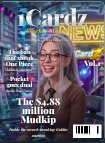
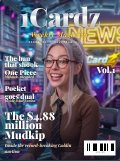
Newsletter: Vol.2, Luna with mic on the cover, graded-slab past issues stacked 6 per side with Read tabs
Claude-Session: https://claude.ai/code/session_0169K2LSRos4CF6RkggE7PND

diff --git a/newsletter.html b/newsletter.html
@@ -1123,19 +1123,33 @@ body>header .cover .top-cover{z-index:0}
   will-change:background-position;transform:translateZ(0);animation:mzholo 3.2s linear infinite}
 @keyframes mzholo{from{background-position:100% 0}to{background-position:0% 0}}
 @media (prefers-reduced-motion:reduce){.mz-cover .mast .ho{animation:none;opacity:0}}
-/* side shelves of past issues (Nov 8) */
-.mz-desk{position:relative;z-index:4;display:grid;padding:0 clamp(14px,2vw,26px);grid-template-columns:minmax(0,150px) minmax(0,1fr) minmax(0,150px);gap:clamp(12px,2vw,26px);align-items:start}
-.mz-shelf{display:grid;grid-template-columns:1fr 1fr;gap:10px;padding-top:clamp(16px,3vw,32px)}
-.mz-slot{display:block;padding:0;border:0;background:none;cursor:pointer;border-radius:3px;transition:transform .2s ease,box-shadow .2s ease;box-shadow:0 8px 18px rgba(0,0,0,.45)}
-.mz-slot .mz-page{pointer-events:none;border-radius:3px}
+/* side shelves of past issues (Nov 8): 6 per side, straight down; each cover cased like a graded card */
+.mz-desk{position:relative;z-index:4;display:grid;padding:0 clamp(14px,2vw,26px);grid-template-columns:minmax(80px,90px) minmax(0,1fr) minmax(80px,90px);gap:clamp(24px,2.6vw,34px);align-items:start}
+.mz-shelf{display:flex;flex-direction:column;gap:14px;padding-top:clamp(16px,3vw,32px)}
+.mz-slot{position:relative;display:block;width:100%;padding:0;border:0;background:none;color:inherit;font:inherit;text-align:left;cursor:pointer;transition:transform .2s ease}
+.mz-slot .slab{display:block;padding:4px 4px 6px;border-radius:6px;background:linear-gradient(135deg,rgba(255,255,255,.30),rgba(255,255,255,.07) 38%,rgba(255,255,255,.04) 62%,rgba(255,255,255,.20));
+  border:1px solid rgba(255,255,255,.5);box-shadow:inset 0 0 0 2px rgba(255,255,255,.08),inset 0 1px 0 rgba(255,255,255,.6),0 10px 20px rgba(0,0,0,.5)}
+.mz-slot .lbl{display:block;margin-bottom:4px;padding:3px 3px 2px;background:#f6f4ee;border:1px solid #c8102e;border-radius:2px;text-align:center;font-family:var(--f-mono);text-transform:uppercase;line-height:1.25;color:#12162b;overflow:hidden;white-space:nowrap}
+.mz-slot .lbl b{display:block;font-size:8.5px;letter-spacing:.06em;font-weight:700}
+.mz-slot .lbl i{display:block;font-style:normal;font-size:6.5px;letter-spacing:.04em;color:#c8102e;overflow:hidden;text-overflow:ellipsis}
+.mz-slot .cv{display:block;min-width:68px;border-radius:2px;overflow:hidden;box-shadow:0 0 0 1px rgba(0,0,0,.35)}
+.mz-slot .mz-page{pointer-events:none}
 .mz-slot .mz-cover .mast .ho{display:none}
-.mz-slot:hover,.mz-slot:focus-visible{transform:translateY(-3px) rotate(-1deg)}
-.mz-slot.on{box-shadow:0 0 0 2px #ffd23f,0 0 16px rgba(255,210,63,.5)}
-.mz-slot.empty{aspect-ratio:3/4;border:1px dashed rgba(255,255,255,.16);box-shadow:none;cursor:default;background:rgba(255,255,255,.02)}
-.mz-slot.empty:hover{transform:none}
+.mz-slot .tab{position:absolute;top:50%;right:-17px;transform:translateY(-50%);width:17px;padding:10px 0;border-radius:0 5px 5px 0;background:#ffd23f;color:#12162b;
+  font-family:var(--f-mono);font-size:9px;font-weight:700;letter-spacing:.18em;text-transform:uppercase;writing-mode:vertical-rl;text-align:center;box-shadow:0 4px 10px rgba(0,0,0,.4)}
+.mz-shelf.r .mz-slot .tab{right:auto;left:-17px;border-radius:5px 0 0 5px;transform:translateY(-50%) rotate(180deg)}
+.mz-slot:hover,.mz-slot:focus-visible{transform:translateY(-3px)}
+.mz-slot.on .slab{border-color:#ffd23f;box-shadow:0 0 0 2px #ffd23f,0 0 18px rgba(255,210,63,.5)}
+.mz-slot.empty{cursor:default;opacity:.35}.mz-slot.empty:hover{transform:none}
+.mz-slot.empty .slab{border-style:dashed;background:rgba(255,255,255,.03);box-shadow:none}
+.mz-slot.empty .lbl{background:none;border:1px dashed rgba(255,255,255,.35)}
+.mz-slot.empty .cv{aspect-ratio:3/4;box-shadow:none;border:1px dashed rgba(255,255,255,.25)}
 .mz-home{display:block;margin:0 auto 10px;font:inherit;font-family:var(--f-mono);font-size:12px;letter-spacing:.12em;text-transform:uppercase;color:#12162b;background:#ffd23f;border:0;border-radius:999px;padding:8px 14px;cursor:pointer}
 .mz-home[hidden]{display:none}
-@media (max-width:759px){.mz-desk{grid-template-columns:minmax(0,1fr);padding:0}.mz-shelf{grid-template-columns:repeat(6,minmax(0,1fr));gap:8px;padding:12px 22px 0}
+@media (max-width:759px){.mz-desk{grid-template-columns:minmax(0,1fr);padding:0}
+  .mz-shelf{flex-direction:row;gap:12px;padding:14px 22px 4px;overflow-x:auto;scrollbar-width:thin}
+  .mz-slot{flex:0 0 86px}
+  .mz-slot .tab,.mz-shelf.r .mz-slot .tab{position:static;display:block;width:auto;margin-top:4px;padding:4px 0;border-radius:4px;transform:none;writing-mode:horizontal-tb}
   .mz-desk>.mz-mid{order:1}.mz-shelf.l{order:2}.mz-shelf.r{order:3}}
 .mz-cover .tag{position:absolute;left:0;right:0;top:34.5cqw;z-index:2;text-align:center;font-family:var(--f-mono);font-size:2.3cqw;letter-spacing:.25em;text-transform:uppercase;color:#fff;text-shadow:0 .3cqw .8cqw rgba(0,0,0,.6)}
 .mz-cover .side{position:absolute;left:4cqw;top:46cqw;z-index:2;width:30cqw;display:flex;flex-direction:column;gap:4cqw}
@@ -1297,7 +1311,7 @@ body>header .cover .top-cover{z-index:0}
         <span class="mono mw-label" style="color:#ffd23f"><i style="background:#ffd23f;box-shadow:0 0 10px #ffd23f"></i><span>Newsletter</span></span>
         <span class="mono mw-upd" id="mzDate">Sunday, November 8, 2026</span>
       </div>
-<div class="mz-desk"><div class="mz-shelf l" aria-label="Past issues"><button type="button" class="mz-slot" data-src="mag/issue-01.html" data-date="Sunday, November 1, 2026" aria-label="Open Issue 01, Sunday, November 1, 2026"><div class="mz-page mz-cover" role="img" aria-label="Magazine cover: The $4.88 million Mudkip">
+<div class="mz-desk"><div class="mz-shelf l" aria-label="Past issues"><button type="button" class="mz-slot" data-src="mag/issue-01.html" data-date="Sunday, November 1, 2026" aria-label="Read Issue 01, Sunday, November 1, 2026"><span class="slab"><span class="lbl"><b>NOV 1, 2026</b><i>Issue 01</i></span><span class="cv"><div class="mz-page mz-cover" role="img" aria-label="Magazine cover: The $4.88 million Mudkip">
   <div class="ph"><img src="img/nl-cover-clip11.jpg" alt="" loading="lazy"></div>
   <div class="mhd"><div class="mast" aria-label="1Cardz"><span class="sh">1Cardz</span><span class="sv">1Cardz</span><span class="ho" aria-hidden="true">1Cardz</span></div>
   <div class="wm">Weekly Magazine</div></div>
@@ -1306,14 +1320,14 @@ body>header .cover .top-cover{z-index:0}
   <div class="side"><div><b>The ban that shook One Piece</b><span>Mihawk, sheathed</span></div><div><b>Pocket goes dual</b><span>Inside Dual Fusion</span></div></div>
   <div class="big"><b>The $4.88 million Mudkip</b><span>Inside the record-breaking Goldin auction</span></div>
   <div class="bar"><i></i>1CZ-01</div>
-</div></button><div class="mz-slot empty" aria-hidden="true"></div><div class="mz-slot empty" aria-hidden="true"></div><div class="mz-slot empty" aria-hidden="true"></div><div class="mz-slot empty" aria-hidden="true"></div><div class="mz-slot empty" aria-hidden="true"></div></div><div class="mz-mid"><button type="button" class="mz-home" id="mzHome" hidden>↩ This week's issue</button><div class="mz" id="mz" data-pages="19">
+</div></span></span><span class="tab">Read</span></button><div class="mz-slot empty" aria-hidden="true"><span class="slab"><span class="lbl"><b>&nbsp;</b><i>&nbsp;</i></span><span class="cv"></span></span></div><div class="mz-slot empty" aria-hidden="true"><span class="slab"><span class="lbl"><b>&nbsp;</b><i>&nbsp;</i></span><span class="cv"></span></span></div><div class="mz-slot empty" aria-hidden="true"><span class="slab"><span class="lbl"><b>&nbsp;</b><i>&nbsp;</i></span><span class="cv"></span></span></div><div class="mz-slot empty" aria-hidden="true"><span class="slab"><span class="lbl"><b>&nbsp;</b><i>&nbsp;</i></span><span class="cv"></span></span></div><div class="mz-slot empty" aria-hidden="true"><span class="slab"><span class="lbl"><b>&nbsp;</b><i>&nbsp;</i></span><span class="cv"></span></span></div></div><div class="mz-mid"><button type="button" class="mz-home" id="mzHome" hidden>↩ This week's issue</button><div class="mz" id="mz" data-pages="19">
   <div class="mz-book" id="mzBook" aria-live="polite"></div>
   <div class="mz-ctl"><button type="button" class="mz-prev" aria-label="Previous page">‹</button><span class="mz-no"></span><button type="button" class="mz-next" aria-label="Next page">›</button></div>
   <template id="mzCover"><div class="mz-page mz-cover" role="img" aria-label="Magazine cover: Your binder is a museum piece">
-  <div class="ph"><img src="img/nl-cover-clip27.jpg" alt="" loading="lazy"></div>
+  <div class="ph"><img src="img/nl-cover-clip25.jpg" alt="" loading="lazy"></div>
   <div class="mhd"><div class="mast" aria-label="1Cardz"><span class="sh">1Cardz</span><span class="sv">1Cardz</span><span class="ho" aria-hidden="true">1Cardz</span></div>
   <div class="wm">Weekly Magazine</div></div>
-  <div class="vol">Vol.1</div>
+  <div class="vol">Vol.2</div>
   <div class="tag">Issue 02 · November 8, 2026</div>
   <div class="side"><div><b>Rayquaza is back</b><span>Delta Reign is out</span></div><div><b>Boldly going</b><span>Star Trek meets Magic</span></div></div>
   <div class="big"><b>Your binder is a museum piece</b><span>Pokémon cards make the Toy Hall of Fame</span></div>
@@ -1331,7 +1345,7 @@ body>header .cover .top-cover{z-index:0}
 <p class=first>My Adventure Book has been out of Core Constructed since November 3.</p><p>Ravensburger says the card gave decks with few or no characters too much consistency. If it was the engine of your list, time to rewrite the story.</p><div class="pull">"This book just got checked out for good."</div><p class="src">Source: Disney Lorcana, official</p><a class="watch" href="archive.html"><img src="img/nl-clip32.jpg" alt="" loading="lazy"><span><b>Watch the report</b>The 1Cardz clip on this story is in the Library. ▶</span></a><div class="folio">8</div></div></template><template class="mzPg"><div class="mz-page mz-feat mz-full"><img class="bg" src="img/nl-clip32.jpg" alt="" loading="lazy"><div class="cap"><span class="kick">Lorcana</span><b>Checked out</b>My Adventure Book leaves Core Constructed.</div><div class="folio">9</div></div></template><template class="mzPg"><div class="mz-page mz-top"><div class="run"><span>Top stories</span><span>1 of 4</span></div><div class="stories"><div class="st"><img src="img/nl-clip29.jpg" alt="" loading="lazy"><span class="g">Magic</span><b>Star Trek boldly goes</b><p>Prerelease started November 6 (six Play Boosters, a foil promo, a deck box and a spindown die per pack). It lands on MTG Arena November 10 and releases November 13.</p><small>Source: Magic: The Gathering, official</small></div><div class="st"><img src="img/nl-clip30.jpg" alt="" loading="lazy"><span class="g">Pokémon</span><b>Happy Meals are back November 10</b><p>Participating US McDonald&#x27;s restaurants bring 15 mini box toys and 15 collectible cards.</p><small>Source: McDonald&#x27;s, via Bleeding Cool</small></div></div><div class="folio">10</div></div></template><template class="mzPg"><div class="mz-page mz-top"><div class="run"><span>Top stories</span><span>2 of 4</span></div><div class="stories"><div class="st"><img src="img/nl-clip34.jpg" alt="" loading="lazy"><span class="g">Riftbound</span><b>The Reckoning hits preorder</b><p>The 250-card set has over 60 Showcase cards and reaches retail April 30, 2027.</p><small>Source: ICv2</small></div><div class="st"><img src="img/nl-clip37.jpg" alt="" loading="lazy"><span class="g">Riftbound</span><b>The T1 bundle goes to a drawing</b><p>The T1 Player Bundle, with Champion cards picked by Faker and team, joins one online drawing open November 13-16.</p><small>Source: Riftbound, official</small></div></div><div class="folio">11</div></div></template><template class="mzPg"><div class="mz-page mz-top"><div class="run"><span>Top stories</span><span>3 of 4</span></div><div class="stories"><div class="st"><img src="img/nl-clip35.jpg" alt="" loading="lazy"><span class="g">Flesh and Blood</span><b>One Lotus and Ancients Awaken get dates</b><p>One Lotus is set for Q2 2027 (premiere May 21-23, Singapore) and Ancients Awaken for Q3 (September 10-12, Antwerp).</p><small>Source: Flesh and Blood, official</small></div><div class="st"><img src="img/nl-clip33.jpg" alt="" loading="lazy"><span class="g">Star Wars</span><b>Unlimited Gift Box lands November 20</b><p>8 boosters and 3 exclusive promos: Moff Gideon, General Veers and Icons 2027 Chewbacca.</p><small>Source: ICv2</small></div></div><div class="folio">12</div></div></template><template class="mzPg"><div class="mz-page mz-top"><div class="run"><span>Top stories</span><span>4 of 4</span></div><div class="stories"><div class="st"><img src="img/nl-clip38.jpg" alt="" loading="lazy"><span class="g">Gundam</span><b>&quot;Claim Miorine&quot; 3-on-3 battles</b><p>Teams of three battle at participating stores December 4-31 and January 8-28; the winning team gets a foil &quot;Mutual Attraction&quot; promo.</p><small>Source: Gundam Card Game, official</small></div></div><div class="folio">13</div></div></template><template class="mzPg"><div class="mz-page mz-nums"><div class="run"><span>By the numbers</span><span>November 8, 2026</span></div><p class="kick">The week in stats</p><h3>By the numbers</h3>
 <div class="nums"><div><b>10+</b><span>years since Mega Rayquaza&#x27;s last appearance</span></div><div><b>250</b><span>cards in Riftbound: The Reckoning</span></div><div><b>60+</b><span>Showcase cards in that set</span></div><div><b>15</b><span>Pokémon cards in the new Happy Meals</span></div><div><b>6</b><span>Play Boosters in a Star Trek prerelease pack</span></div><div><b>3</b><span>exclusive promos in the SWU Gift Box</span></div><div><b>13</b><span>news clips from Zia &amp; Luna this week</span></div><div><b>7</b><span>games covered on the channel</span></div></div><div class="folio">14</div></div></template><template class="mzPg"><div class="mz-page mz-mkt"><div class="run"><span>Market Watch</span><span>Week to November 8, 2026</span></div><p class="kick">Prices</p><h3>The week's movers</h3>
 <div class="mv"><div><span class="g">Lorcana</span><b>Disney Lorcana: Hyperia City Booster Box</b><em>$124.78</em><i class="down">▼ 14.6%</i></div><div><span class="g">Gundam</span><b>Stardust Trails Booster Box</b><em>$111.50</em><i class="down">▼ 14.1%</i></div><div><span class="g">One Piece</span><b>Monkey.D.Luffy (079) (Super Leader Alternate Art)</b><em>$1,242.26</em><i class="down">▼ 10.2%</i></div><div><span class="g">One Piece</span><b>Extra Booster: One Piece Heroines Edition Vol.2 Booster Box</b><em>$233.41</em><i class="down">▼ 9.4%</i></div><div><span class="g">Yu-Gi-Oh!</span><b>Black Luster Soldier - Soldier of Light and Darkness (Starlight Rare) (Extended Art)</b><em>$263.57</em><i class="down">▼ 6.1%</i></div></div><p class="note">Recent sold averages in USD, change over the week. Daily prices on the <a href="market.html">Market</a> page.</p><div class="folio">15</div></div></template><template class="mzPg"><div class="mz-page mz-quips"><div class="run"><span>Overheard in the studio</span><span>The best lines</span></div><p class="kick">Said on air</p><h3>Overheard in the studio</h3><div class="quips"><blockquote><p>"Moff Gideon, now gift-wrapped."</p><cite>Luna on SWU Gift Box</cite></blockquote><blockquote><p>"April&#x27;s a long wait. Stretch first."</p><cite>Zia on The Reckoning</cite></blockquote><blockquote><p>"Two new sets. Your wallet heard that."</p><cite>Luna on One Lotus dated</cite></blockquote><blockquote><p>"Your binder is basically a museum piece now."</p><cite>Zia on Hall of Fame</cite></blockquote><blockquote><p>"Faker picked the cards. You just have to pick the drawing."</p><cite>Luna on T1 Bundle Draw</cite></blockquote><blockquote><p>"Finally, a reason to make two friends."</p><cite>Zia on Gundam 3-on-3</cite></blockquote></div><div class="folio">16</div></div></template><template class="mzPg"><div class="mz-page mz-radar"><div class="run"><span>Release radar</span><span>Further ahead</span></div><p class="kick">Save the dates</p><h3>Release radar</h3><div class="radar"><div><b>Nov 20, 2026</b><span>Star Wars: Unlimited Gift Box</span></div><div><b>Dec 4–31, 2026</b><span>Gundam &quot;Claim Miorine&quot; 3-on-3 battles (and Jan 8–28)</span></div><div><b>Apr 30, 2027</b><span>Riftbound: The Reckoning</span></div><div><b>May 21–23, 2027</b><span>Flesh and Blood One Lotus premiere, Singapore</span></div><div><b>Sep 10–12, 2027</b><span>Flesh and Blood Ancients Awaken premiere, Antwerp</span></div></div><p class="note">Dates as announced in this issue's stories. Every story is on the <a href="news.html">Headlines</a> page.</p><div class="folio">17</div></div></template><template class="mzPg"><div class="mz-page mz-cal"><div class="run"><span>The week ahead</span><span>Next 7 days</span></div><p class="kick">Mark your calendar</p><h3>The week ahead</h3><div class="cal"><div><b>Mon, Nov 9</b><span>&quot;Set Phasers to Superdrop&quot; Secret Lair preorders open.<i>Confirmed</i></span></div><div><b>Tue, Nov 10</b><span>Star Trek reaches MTG Arena, and Pokémon Happy Meals return.<i>Confirmed</i></span></div><div><b>Fri, Nov 13</b><span>Magic | Star Trek release, plus Yu-Gi-Oh! Magnificent Maestros.<i>Confirmed</i></span></div><div><b>Fri, Nov 13-15</b><span>MagicCon Atlanta + World Championship 32.<i>Confirmed</i></span></div><div><b>Fri, Nov 13</b><span>Flesh and Blood Mastery Pack: Assassin + Armory Deck: Dr. Mortimer.<i>Confirmed</i></span></div></div><div class="folio">18</div></div></template>
-</div></div><div class="mz-shelf r" aria-label="More past issues"><div class="mz-slot empty" aria-hidden="true"></div><div class="mz-slot empty" aria-hidden="true"></div><div class="mz-slot empty" aria-hidden="true"></div><div class="mz-slot empty" aria-hidden="true"></div><div class="mz-slot empty" aria-hidden="true"></div><div class="mz-slot empty" aria-hidden="true"></div></div></div>
+</div></div><div class="mz-shelf r" aria-label="More past issues"><div class="mz-slot empty" aria-hidden="true"><span class="slab"><span class="lbl"><b>&nbsp;</b><i>&nbsp;</i></span><span class="cv"></span></span></div><div class="mz-slot empty" aria-hidden="true"><span class="slab"><span class="lbl"><b>&nbsp;</b><i>&nbsp;</i></span><span class="cv"></span></span></div><div class="mz-slot empty" aria-hidden="true"><span class="slab"><span class="lbl"><b>&nbsp;</b><i>&nbsp;</i></span><span class="cv"></span></span></div><div class="mz-slot empty" aria-hidden="true"><span class="slab"><span class="lbl"><b>&nbsp;</b><i>&nbsp;</i></span><span class="cv"></span></span></div><div class="mz-slot empty" aria-hidden="true"><span class="slab"><span class="lbl"><b>&nbsp;</b><i>&nbsp;</i></span><span class="cv"></span></span></div><div class="mz-slot empty" aria-hidden="true"><span class="slab"><span class="lbl"><b>&nbsp;</b><i>&nbsp;</i></span><span class="cv"></span></span></div></div></div>
     </div>
   </section>
 

diff --git a/mag/issue-02.html b/mag/issue-02.html
@@ -1,8 +1,8 @@
 <template id="mzCover"><div class="mz-page mz-cover" role="img" aria-label="Magazine cover: Your binder is a museum piece">
-  <div class="ph"><img src="img/nl-cover-clip27.jpg" alt="" loading="lazy"></div>
+  <div class="ph"><img src="img/nl-cover-clip25.jpg" alt="" loading="lazy"></div>
   <div class="mhd"><div class="mast" aria-label="1Cardz"><span class="sh">1Cardz</span><span class="sv">1Cardz</span><span class="ho" aria-hidden="true">1Cardz</span></div>
   <div class="wm">Weekly Magazine</div></div>
-  <div class="vol">Vol.1</div>
+  <div class="vol">Vol.2</div>
   <div class="tag">Issue 02 · November 8, 2026</div>
   <div class="side"><div><b>Rayquaza is back</b><span>Delta Reign is out</span></div><div><b>Boldly going</b><span>Star Trek meets Magic</span></div></div>
   <div class="big"><b>Your binder is a museum piece</b><span>Pokémon cards make the Toy Hall of Fame</span></div>

diff --git a/tools/nl_magazine.py b/tools/nl_magazine.py
@@ -268,19 +268,33 @@ CSS = r'''
   will-change:background-position;transform:translateZ(0);animation:mzholo 3.2s linear infinite}
 @keyframes mzholo{from{background-position:100% 0}to{background-position:0% 0}}
 @media (prefers-reduced-motion:reduce){.mz-cover .mast .ho{animation:none;opacity:0}}
-/* side shelves of past issues (Nov 8) */
-.mz-desk{position:relative;z-index:4;display:grid;padding:0 clamp(14px,2vw,26px);grid-template-columns:minmax(0,150px) minmax(0,1fr) minmax(0,150px);gap:clamp(12px,2vw,26px);align-items:start}
-.mz-shelf{display:grid;grid-template-columns:1fr 1fr;gap:10px;padding-top:clamp(16px,3vw,32px)}
-.mz-slot{display:block;padding:0;border:0;background:none;cursor:pointer;border-radius:3px;transition:transform .2s ease,box-shadow .2s ease;box-shadow:0 8px 18px rgba(0,0,0,.45)}
-.mz-slot .mz-page{pointer-events:none;border-radius:3px}
+/* side shelves of past issues (Nov 8): 6 per side, straight down; each cover cased like a graded card */
+.mz-desk{position:relative;z-index:4;display:grid;padding:0 clamp(14px,2vw,26px);grid-template-columns:minmax(80px,90px) minmax(0,1fr) minmax(80px,90px);gap:clamp(24px,2.6vw,34px);align-items:start}
+.mz-shelf{display:flex;flex-direction:column;gap:14px;padding-top:clamp(16px,3vw,32px)}
+.mz-slot{position:relative;display:block;width:100%;padding:0;border:0;background:none;color:inherit;font:inherit;text-align:left;cursor:pointer;transition:transform .2s ease}
+.mz-slot .slab{display:block;padding:4px 4px 6px;border-radius:6px;background:linear-gradient(135deg,rgba(255,255,255,.30),rgba(255,255,255,.07) 38%,rgba(255,255,255,.04) 62%,rgba(255,255,255,.20));
+  border:1px solid rgba(255,255,255,.5);box-shadow:inset 0 0 0 2px rgba(255,255,255,.08),inset 0 1px 0 rgba(255,255,255,.6),0 10px 20px rgba(0,0,0,.5)}
+.mz-slot .lbl{display:block;margin-bottom:4px;padding:3px 3px 2px;background:#f6f4ee;border:1px solid #c8102e;border-radius:2px;text-align:center;font-family:var(--f-mono);text-transform:uppercase;line-height:1.25;color:#12162b;overflow:hidden;white-space:nowrap}
+.mz-slot .lbl b{display:block;font-size:8.5px;letter-spacing:.06em;font-weight:700}
+.mz-slot .lbl i{display:block;font-style:normal;font-size:6.5px;letter-spacing:.04em;color:#c8102e;overflow:hidden;text-overflow:ellipsis}
+.mz-slot .cv{display:block;min-width:68px;border-radius:2px;overflow:hidden;box-shadow:0 0 0 1px rgba(0,0,0,.35)}
+.mz-slot .mz-page{pointer-events:none}
 .mz-slot .mz-cover .mast .ho{display:none}
-.mz-slot:hover,.mz-slot:focus-visible{transform:translateY(-3px) rotate(-1deg)}
-.mz-slot.on{box-shadow:0 0 0 2px #ffd23f,0 0 16px rgba(255,210,63,.5)}
-.mz-slot.empty{aspect-ratio:3/4;border:1px dashed rgba(255,255,255,.16);box-shadow:none;cursor:default;background:rgba(255,255,255,.02)}
-.mz-slot.empty:hover{transform:none}
+.mz-slot .tab{position:absolute;top:50%;right:-17px;transform:translateY(-50%);width:17px;padding:10px 0;border-radius:0 5px 5px 0;background:#ffd23f;color:#12162b;
+  font-family:var(--f-mono);font-size:9px;font-weight:700;letter-spacing:.18em;text-transform:uppercase;writing-mode:vertical-rl;text-align:center;box-shadow:0 4px 10px rgba(0,0,0,.4)}
+.mz-shelf.r .mz-slot .tab{right:auto;left:-17px;border-radius:5px 0 0 5px;transform:translateY(-50%) rotate(180deg)}
+.mz-slot:hover,.mz-slot:focus-visible{transform:translateY(-3px)}
+.mz-slot.on .slab{border-color:#ffd23f;box-shadow:0 0 0 2px #ffd23f,0 0 18px rgba(255,210,63,.5)}
+.mz-slot.empty{cursor:default;opacity:.35}.mz-slot.empty:hover{transform:none}
+.mz-slot.empty .slab{border-style:dashed;background:rgba(255,255,255,.03);box-shadow:none}
+.mz-slot.empty .lbl{background:none;border:1px dashed rgba(255,255,255,.35)}
+.mz-slot.empty .cv{aspect-ratio:3/4;box-shadow:none;border:1px dashed rgba(255,255,255,.25)}
 .mz-home{display:block;margin:0 auto 10px;font:inherit;font-family:var(--f-mono);font-size:12px;letter-spacing:.12em;text-transform:uppercase;color:#12162b;background:#ffd23f;border:0;border-radius:999px;padding:8px 14px;cursor:pointer}
 .mz-home[hidden]{display:none}
-@media (max-width:759px){.mz-desk{grid-template-columns:minmax(0,1fr);padding:0}.mz-shelf{grid-template-columns:repeat(6,minmax(0,1fr));gap:8px;padding:12px 22px 0}
+@media (max-width:759px){.mz-desk{grid-template-columns:minmax(0,1fr);padding:0}
+  .mz-shelf{flex-direction:row;gap:12px;padding:14px 22px 4px;overflow-x:auto;scrollbar-width:thin}
+  .mz-slot{flex:0 0 86px}
+  .mz-slot .tab,.mz-shelf.r .mz-slot .tab{position:static;display:block;width:auto;margin-top:4px;padding:4px 0;border-radius:4px;transform:none;writing-mode:horizontal-tb}
   .mz-desk>.mz-mid{order:1}.mz-shelf.l{order:2}.mz-shelf.r{order:3}}
 .mz-cover .tag{position:absolute;left:0;right:0;top:34.5cqw;z-index:2;text-align:center;font-family:var(--f-mono);font-size:2.3cqw;letter-spacing:.25em;text-transform:uppercase;color:#fff;text-shadow:0 .3cqw .8cqw rgba(0,0,0,.6)}
 .mz-cover .side{position:absolute;left:4cqw;top:46cqw;z-index:2;width:30cqw;display:flex;flex-direction:column;gap:4cqw}

diff --git a/tools/build_newsletter.py b/tools/build_newsletter.py
@@ -63,10 +63,15 @@ for no_, d in sorted(issues.items(), key=lambda kv: kv[0], reverse=True):
         past.append((no_, d, cov.group(1) if cov else ''))
 def _slot(item):
     if not item:
-        return '<div class="mz-slot empty" aria-hidden="true"></div>'
+        return '<div class="mz-slot empty" aria-hidden="true"><span class="slab"><span class="lbl"><b>&nbsp;</b><i>&nbsp;</i></span><span class="cv"></span></span></div>'
     no_, d, cov = item
+    try:
+        dd = datetime.datetime.strptime(d.get('date', ''), '%A, %B %d, %Y'); tag = f"{dd.strftime('%b').upper()} {dd.day}, {dd.year}"
+    except Exception:
+        tag = d.get('date', '')
     return (f'<button type="button" class="mz-slot" data-src="mag/issue-{e(no_)}.html" data-date="{e(d.get("date", ""))}" '
-            f'aria-label="Open Issue {e(no_)}, {e(d.get("date", ""))}">{cov}</button>')
+            f'aria-label="Read Issue {e(no_)}, {e(d.get("date", ""))}"><span class="slab"><span class="lbl"><b>{e(tag)}</b><i>Issue {e(no_)}</i></span>'
+            f'<span class="cv">{cov}</span></span><span class="tab">Read</span></button>')
 _sl = (past + [None] * 12)[:12]
 shelf_l = '<div class="mz-shelf l" aria-label="Past issues">' + ''.join(_slot(x) for x in _sl[:6]) + '</div>'
 shelf_r = '<div class="mz-shelf r" aria-label="More past issues">' + ''.join(_slot(x) for x in _sl[6:]) + '</div>'
